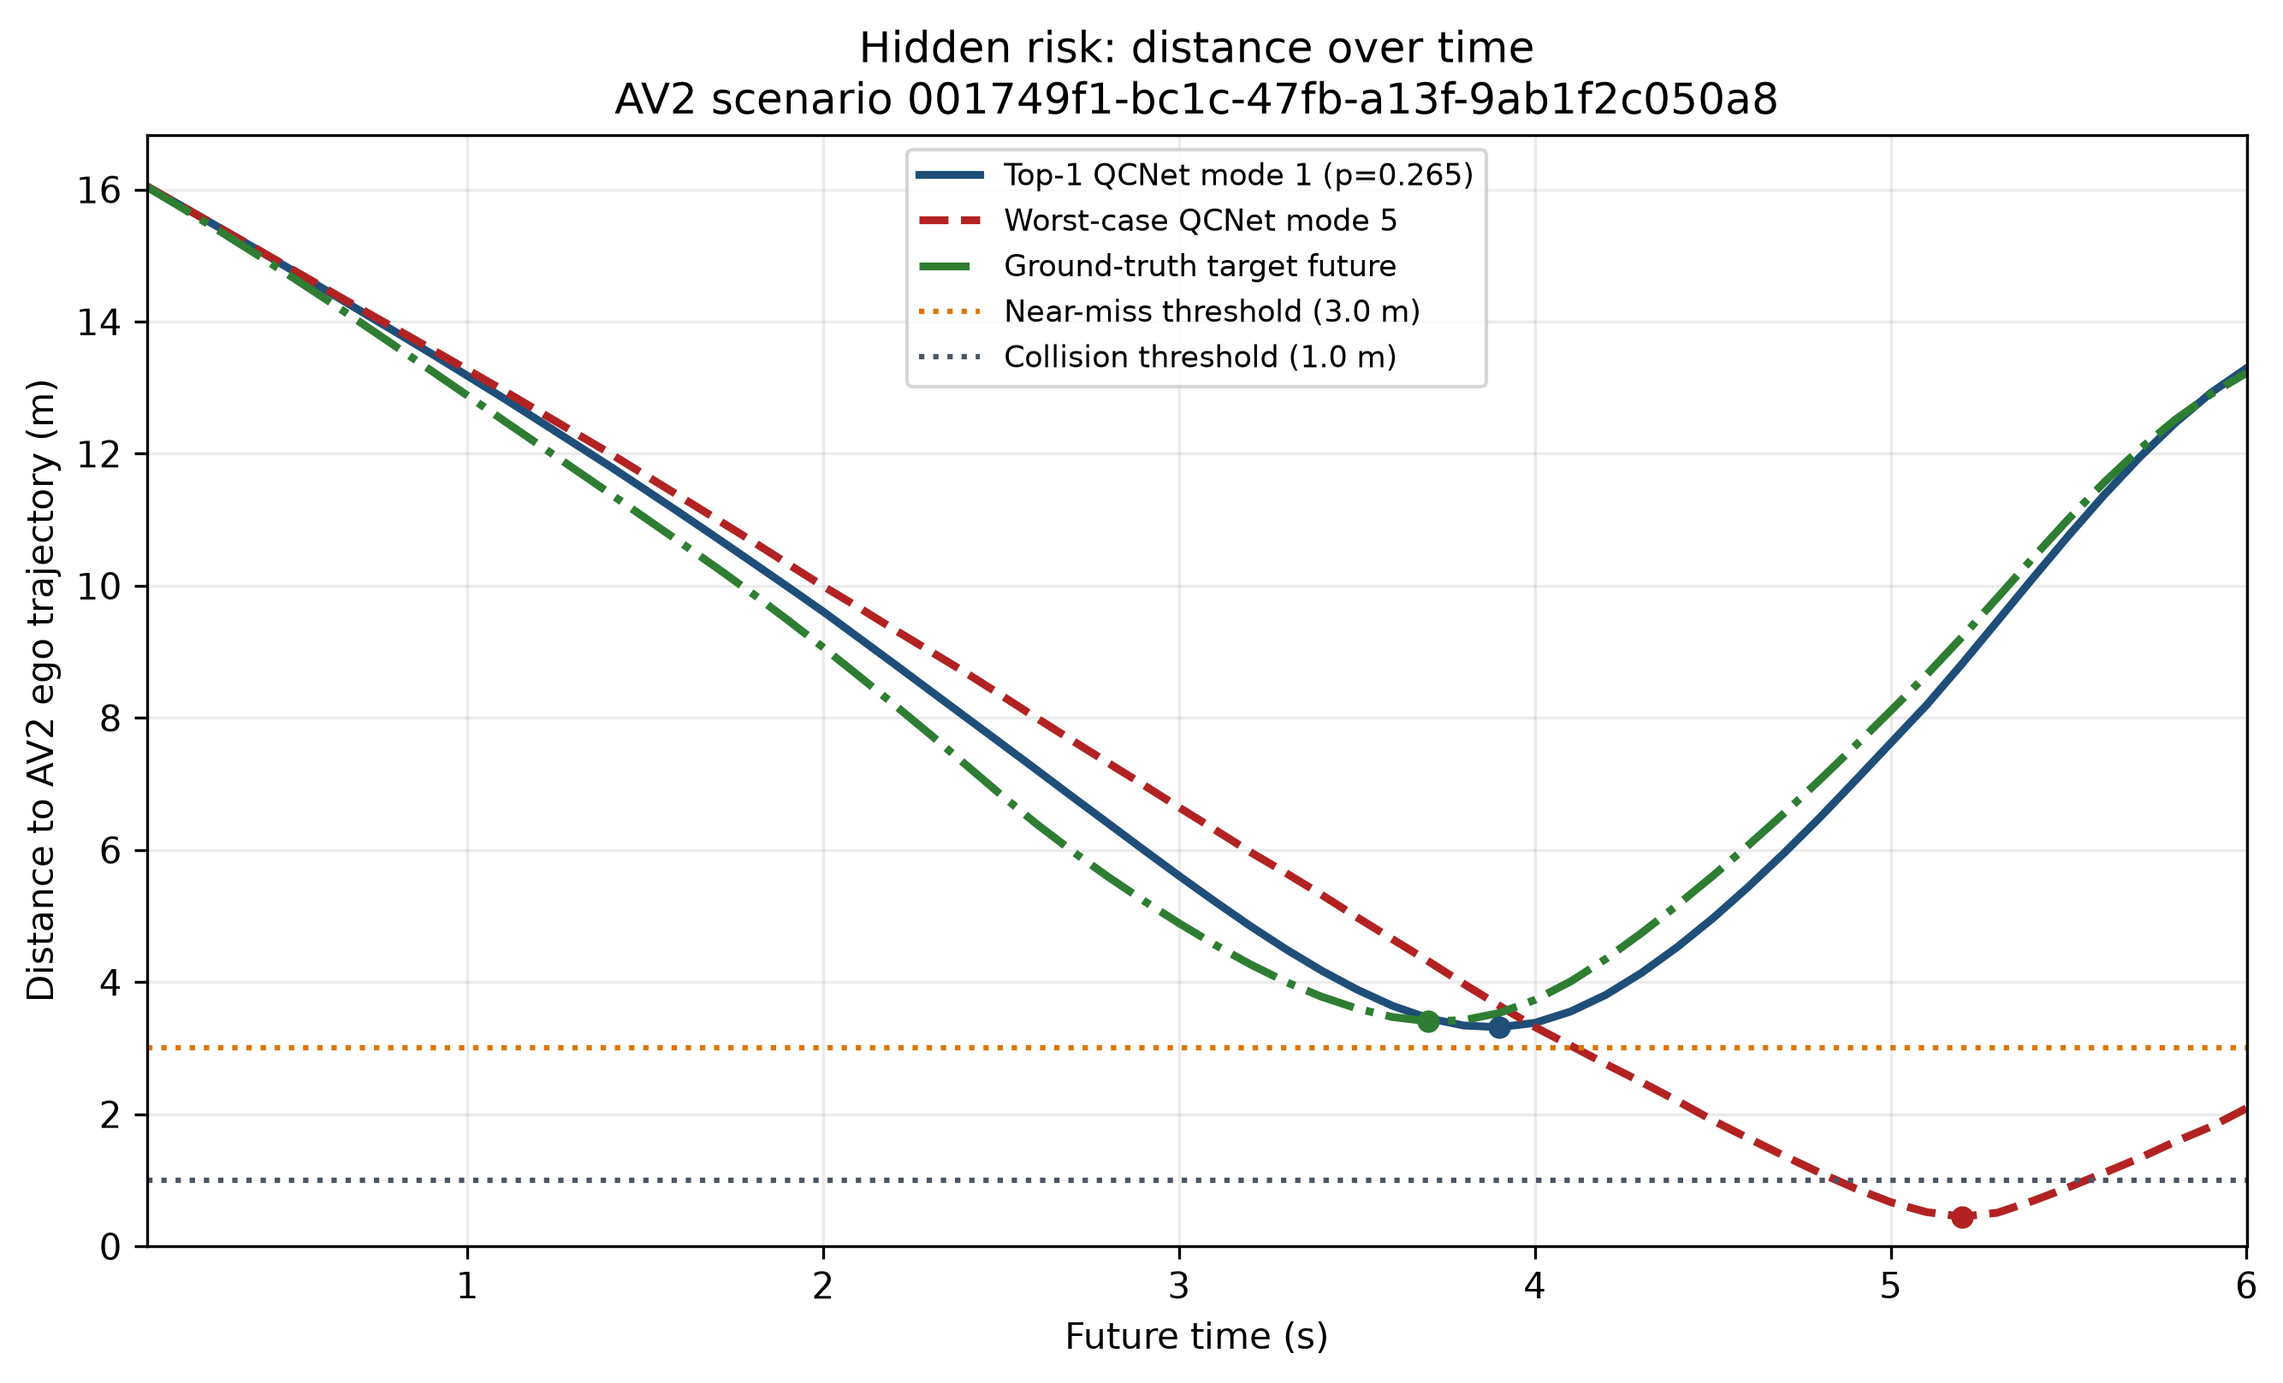
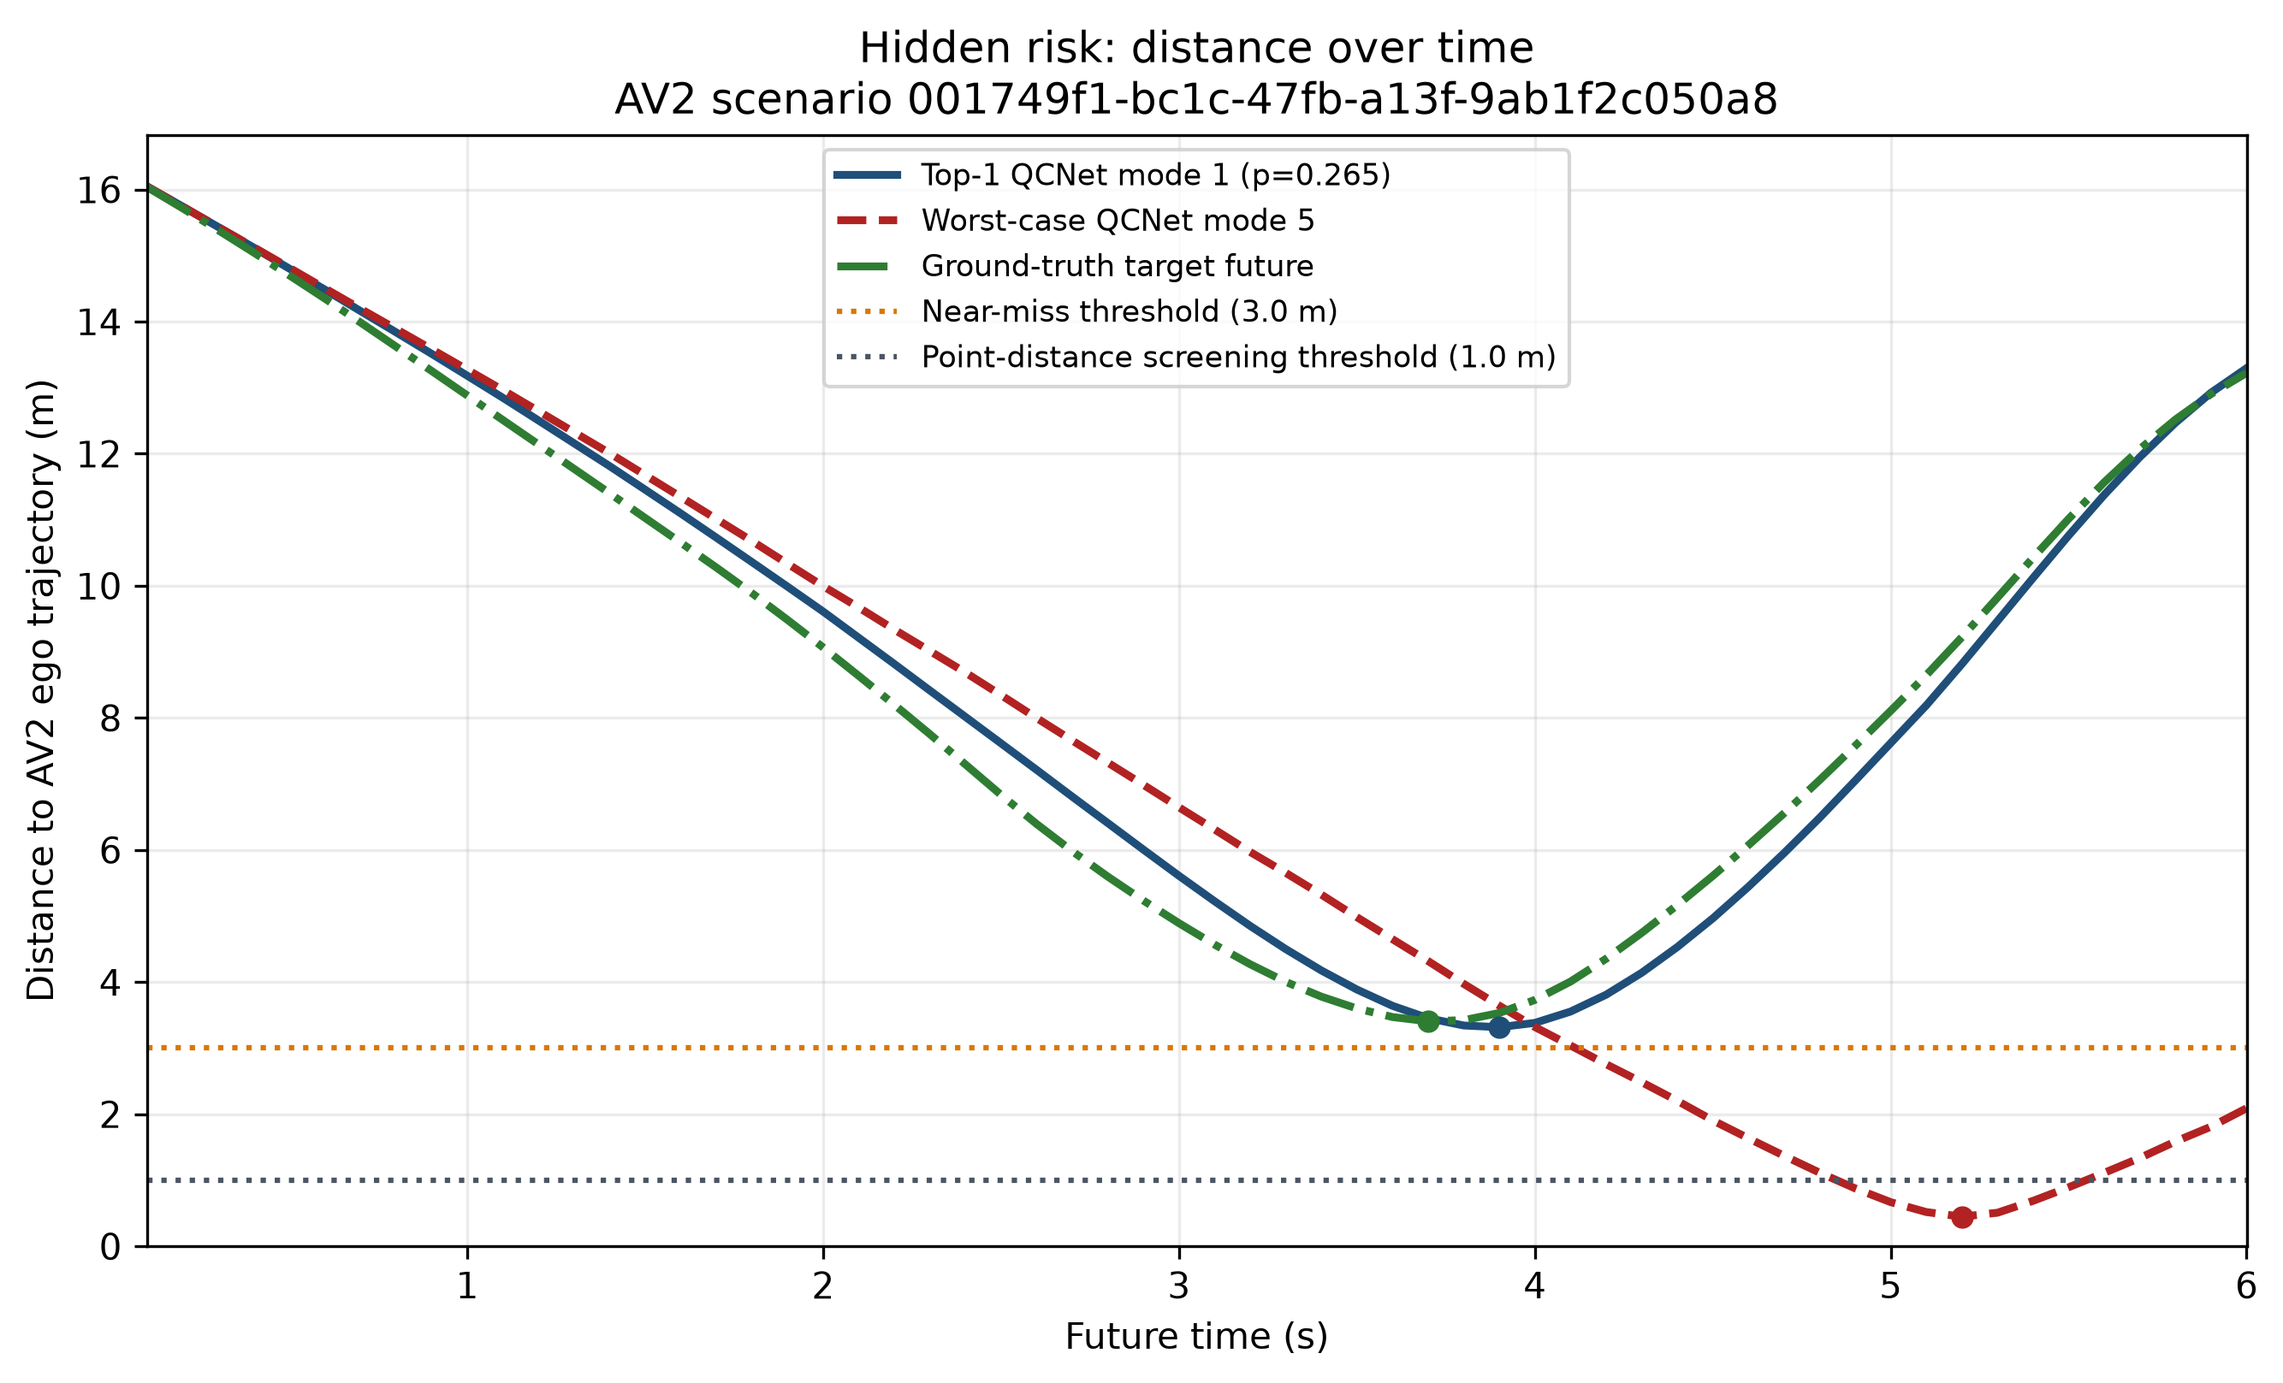
Update QCNet open-loop analysis with final selected scenarios

Changed region(s): [[0.3733, 0.1237, 0.6844, 0.2783]]

diff --git a/docs/results_summary_qcnet_real.md b/docs/results_summary_qcnet_real.md
@@ -1,12 +1,12 @@
-# QCNet Open-Loop Safety Analysis on AV2 Validation Scenarios
+# QCNet Open-Loop Point-Trajectory Safety Analysis on AV2 Validation Scenarios
 
 ## What Was Evaluated
 
 This study evaluates 50 scenario artifacts from the Argoverse 2 (AV2) motion forecasting validation split. Each artifact contains six real multimodal trajectory predictions from the released QCNet AV2 checkpoint, their mode probabilities, the AV2 ego future trajectory, and the focal target actor's ground-truth future trajectory. All trajectories are represented in the AV2 global coordinate frame over a 60-step, 6.0 s future horizon sampled at 10 Hz.
 
-The safety measure is the time-aligned Euclidean distance between the ego future trajectory and either a predicted target trajectory or the target ground truth. The analysis reports the minimum distance for the highest-probability QCNet mode (top-1), the minimum across all six modes (worst-case multimodal), and the ground-truth minimum. A distance below 3.0 m is treated as a near miss and a distance below 1.0 m as a collision-threshold event.
+The analysis measure is the time-aligned Euclidean point distance between the ego future trajectory and either a predicted target trajectory or the target ground truth. It reports the minimum distance for the highest-probability QCNet mode (top-1), the minimum across all six modes (worst-case multimodal), and the ground-truth minimum. A point distance below 3.0 m is treated as a near miss for this analysis. The separate 1.0 m threshold remains a point-distance screening convention and is not vehicle-footprint collision checking.
 
-This is open-loop safety analysis using real QCNet multimodal predictions and AV2 ego trajectories. It is not closed-loop autonomous driving evaluation and does not report CARLA results. The simple planner comparison does not alter the recorded ego trajectory or simulate the consequences of braking.
+This is open-loop point-trajectory safety analysis using real QCNet multimodal predictions and AV2 ego trajectories. It is not closed-loop autonomous driving evaluation and does not report CARLA results. The simple planner comparison does not alter the recorded ego trajectory or simulate the consequences of braking.
 
 ## Artifact Generation
 
@@ -21,8 +21,8 @@ Across the 50 exported scenarios:
 - 1 scenario had a top-1 QCNet minimum distance below the 3.0 m near-miss threshold.
 - 3 scenarios had a worst-case multimodal minimum distance below 3.0 m.
 - 1 scenario had a ground-truth minimum distance below 3.0 m.
-- No top-1 or ground-truth trajectory fell below the 1.0 m collision threshold.
-- 2 worst-case multimodal trajectories fell below 1.0 m.
+- No top-1 or ground-truth trajectory fell below the 1.0 m point-distance threshold.
+- 2 worst-case multimodal trajectories fell below the 1.0 m point-distance threshold; this does not establish a collision.
 - 2 scenarios were hidden-risk cases in which top-1 remained above 3.0 m while a lower-probability mode fell below 3.0 m.
 
 These are threshold counts within a selected 50-scenario subset. They are not collision rates, dataset-wide frequencies, or evidence that QCNet improves safety.
@@ -32,45 +32,55 @@ These are threshold counts within a selected 50-scenario subset. They are not co
 | Scenario | Type | Top-1 probability | Top-1 min (m) | Worst-case min (m) | Ground truth min (m) | Multimodal gap (m) |
 |---|---|---:|---:|---:|---:|---:|
 | `001749f1-bc1c-47fb-a13f-9ab1f2c050a8` | Hidden risk | 0.265 | 3.317 | 0.448 | 3.406 | 2.869 |
-| `0058ed53-93bf-42a7-9bba-6df3f6ce20f5` | Large top-1 vs multimodal gap | 0.294 | 8.173 | 0.646 | 9.283 | 7.527 |
+| `0091bad9-e7b2-4c07-aa12-6b5fd03c63d2` | High-confidence close interaction | 0.912 | 3.181 | 3.136 | 3.228 | 0.045 |
 | `00351569-255c-433e-b97b-e2a844d1b6e0` | Real near miss | 0.306 | 2.597 | 2.045 | 2.162 | 0.552 |
 
 ### Hidden Risk: 001749
 
 The top-1 prediction remains just above the near-miss threshold, with a minimum distance of 3.317 m. A lower-probability mode reaches 0.448 m, producing a 2.869 m multimodal gap. Multimodal prediction exposes possible lower-probability risk, but ground truth remains safe at 3.406 m. This is evidence of divergent predicted futures, not an observed collision or proof that braking would improve the outcome.
 
-### Large Gap: 0058ed
+### High-Confidence Close Interaction: 0091bad
 
-The top-1 prediction remains well separated from ego at 8.173 m, while the worst-case mode reaches 0.646 m. The resulting 7.527 m gap is a clear example of a risk signal that is absent from the highest-probability trajectory. Multimodal prediction exposes possible lower-probability risk, but ground truth remains safe at 9.283 m.
+Top-1, worst-case multimodal, and ground-truth minimum distances are closely aligned at 3.181 m, 3.136 m, and 3.228 m. Their minima occur at zero-based steps 16, 19, and 18, corresponding to 1.7-2.0 s into the future rather than the horizon endpoint. The top-1 probability is 0.912, and map-context review places the trajectories coherently in the same road corridor. This case provides a high-confidence example of a consistent close interaction above but near the 3.0 m threshold.
 
 ### Real Near Miss: 003515
 
-This is the strongest real near-miss example in the selected batch because ground truth, top-1, and worst-case multimodal distances are all below the 3.0 m near-miss threshold. Their respective minimum distances are 2.162 m, 2.597 m, and 2.045 m. The agreement indicates that the close interaction is present in the recorded future as well as in the QCNet predictions, although no trajectory falls below the 1.0 m collision threshold.
+This is the strongest real near-miss example in the selected batch because ground truth, top-1, and worst-case multimodal distances are all below the 3.0 m near-miss threshold. Their respective minimum distances are 2.162 m, 2.597 m, and 2.045 m. The agreement indicates that the close interaction is present in the recorded future as well as in the QCNet predictions. This point-distance result is not a vehicle-footprint collision determination.
+
+### Retained Appendix Case: 0058ed
+
+Scenario `0058ed53-93bf-42a7-9bba-6df3f6ce20f5` remains available as an appendix or sensitivity example of a large top-1 versus multimodal gap. It was removed from the headline set because its strongest risky point occurs at the final horizon timestep, making the sub-meter worst-case point distance more vulnerable to endpoint effects. Its existing figures and metrics have been retained. Scenario `0091bad` was selected instead because its close interaction occurs earlier and is more consistent across top-1, worst-case multimodal, and ground-truth trajectories.
 
 ## Top-1 and Multimodal Planner Decisions
 
-The illustrative planner rule brakes when its input minimum distance is below 3.0 m. A top-1 planner therefore does not brake for scenarios 001749 or 0058ed, while a conservative multimodal planner brakes because at least one predicted mode crosses the threshold. Both planners brake for scenario 003515.
+The illustrative planner rule brakes only when its input minimum distance is below 3.0 m. For scenario 001749, the top-1 planner does not brake while the conservative multimodal planner brakes. For scenario 0091bad, neither planner brakes because both predicted minima remain above 3.0 m, although top-1, worst-case multimodal, and ground truth all identify a close interaction near the threshold. Both planners brake for scenario 003515.
 
-This comparison shows how considering lower-probability modes can change a threshold-based decision. It does not establish that the conservative decision is safer: in the first two scenarios the recorded ground truth remains above 3.0 m, and the analysis does not simulate the effects or costs of intervention. Probability calibration, mode plausibility, and the trade-off between risk sensitivity and unnecessary braking remain open questions.
+The selected cases motivate uncertainty-aware planning by showing both disagreement across plausible modes and agreement around a close interaction. They do not prove that uncertainty-aware planning improves safety. The analysis does not simulate the effects or costs of intervention, and probability calibration, mode plausibility, and the trade-off between risk sensitivity and unnecessary braking remain open questions.
 
 ## Limitations
 
 - The analysis is open loop; planner actions do not affect future ego or target motion.
 - The 50 scenarios are a subset of AV2 validation data and are not a representative safety benchmark.
-- Distance is measured between trajectory points and does not account for actor dimensions, orientation, or collision geometry.
+- Distance is measured between trajectory points and does not account for actor dimensions, orientation, or vehicle-footprint overlap.
 - Each artifact evaluates one focal target actor against the recorded ego trajectory rather than jointly reasoning over every road user.
 - Worst-case mode selection ignores probability magnitude after the modes have been generated.
-- The 3.0 m and 1.0 m thresholds are simple analysis conventions, not validated universal definitions of near miss and collision.
+- The 3.0 m and 1.0 m thresholds are simple point-distance conventions, not validated universal safety definitions.
 - No CARLA bridge, closed-loop controller, or counterfactual braking response is evaluated here.
 
 ## Next Steps
 
-The immediate next step is to inspect the selected trajectories alongside map context and verify that the low-distance modes are behaviorally plausible. The analysis can then be expanded to a larger, documented AV2 sample and augmented with actor-envelope distances and probability-aware risk measures. A later closed-loop phase should connect prediction-derived risk to a controller in CARLA or another simulator, measure the consequences of intervention, and report safety and conservatism together. Those future results must remain separate from the open-loop evidence reported here.
+The selected and candidate trajectories have now been inspected with AV2 map context. The analysis can next be expanded to a larger, documented AV2 sample and augmented with actor-envelope distances and probability-aware risk measures. A later closed-loop phase should connect prediction-derived risk to a controller in CARLA or another simulator, measure the consequences of intervention, and report safety and conservatism together. Those future results must remain separate from the open-loop evidence reported here.
 
 ## Generated Outputs
 
 - `results/qcnet_batch/figures/distance_over_time_hidden_risk_001749.png`
-- `results/qcnet_batch/figures/distance_over_time_large_gap_0058ed.png`
+- `results/qcnet_batch/figures/distance_over_time_high_confidence_close_0091bad.png`
 - `results/qcnet_batch/figures/distance_over_time_real_near_miss_003515.png`
+- `results/qcnet_batch/scenario_validation/`
+- `results/qcnet_batch/scenario_validation_candidates/`
 - `results/qcnet_batch/qcnet_selected_scenarios_summary.csv`
 - `results/qcnet_batch/qcnet_planner_decision_comparison.csv`
+
+Retained appendix/sensitivity output:
+
+- `results/qcnet_batch/figures/distance_over_time_large_gap_0058ed.png`

diff --git a/results/qcnet_batch/scenario_validation_candidates/candidate_replacement_review.md b/results/qcnet_batch/scenario_validation_candidates/candidate_replacement_review.md
@@ -1,0 +1,37 @@
+# QCNet Candidate Replacement Review
+
+## Scope
+
+This review compares three possible replacements for scenario `0058ed53-93bf-42a7-9bba-6df3f6ce20f5` in the selected QCNet examples. The comparison uses the recorded AV2 ego trajectory, the focal actor's ground-truth future, six QCNet point-trajectory modes, and the local AV2 map. Timestep indices are zero-based; the first predicted point is at 0.1 s.
+
+These are open-loop point-trajectory analyses, not closed-loop safety results. The recorded ego trajectory does not respond to a predicted risk. Distances are between trajectory points and do not include actor envelopes or vehicle footprints, so none of the cases establishes a collision.
+
+## Comparison
+
+| Scenario | Candidate type | Top-1 / worst / ground truth min (m) | Minimum steps (top-1 / worst / GT) | Top-1 probability | Worst-mode probability | Horizon-end worst minimum | Recommended use |
+|---|---|---:|---:|---:|---:|---|---|
+| `005f3e26-75cb-43a5-b61a-89343d490fdf` | Borderline near-miss threshold | 3.036 / 3.003 / 3.606 | 27 / 24 / 38 | 0.225 | 0.107 | No | `secondary_case` |
+| `0091bad9-e7b2-4c07-aa12-6b5fd03c63d2` | High-confidence close interaction | 3.181 / 3.136 / 3.228 | 16 / 19 / 18 | 0.912 | 0.000377 | No | `primary_case_study` |
+| `00170a57-eb8a-4947-8b7d-7b12af7af2db` | Moderate close interaction | 3.427 / 3.261 / 3.362 | 39 / 49 / 43 | 0.532 | 0.000788 | No | `appendix_only` |
+
+## Candidate Assessment
+
+### 005f3e: Borderline Threshold Case
+
+The top-1 and worst-case predictions both approach the 3.0 m threshold before the middle of the horizon, while ground truth remains farther away at 3.606 m. The mapped trajectories show a plausible close interaction in the road corridor rather than an isolated endpoint convergence. This is useful for discussing sensitivity to a chosen threshold, but the lower top-1 probability and larger ground-truth separation make it weaker as the main replacement.
+
+### 0091bad: High-Confidence Close Interaction
+
+This candidate has the strongest agreement across evidence sources. Top-1, worst-case, and ground-truth minimum distances occupy a narrow 0.092 m range, and their minima occur within three timesteps around 1.7-2.0 s. The map view places the trajectories coherently within the same road corridor. The top-1 probability is 0.912, so the close interaction is represented by QCNet's dominant mode as well as ground truth. The nominal worst-case mode has very low probability, but the case does not depend on that mode because top-1 and ground truth report similar separation.
+
+### 00170a: Moderate Close Interaction
+
+The three minimum distances are reasonably consistent and all occur before the final timestep. The mapped interaction is plausible, but the minimum separation stays above 3.0 m and occurs later than in `0091bad`. The worst-case mode also has negligible probability. The scenario is suitable as supporting or appendix evidence, but it adds less to the headline comparison.
+
+## Recommendation
+
+Use `0091bad9-e7b2-4c07-aa12-6b5fd03c63d2` as the replacement for `0058ed53` in the three headline selected examples. It better satisfies the stated criteria: the closest interaction occurs well before the horizon end, top-1 and ground truth are closely aligned with the worst-case distance, the dominant mode has high probability, and the map context supports a coherent road interaction.
+
+Keep `0058ed53` in the analysis as an appendix or sensitivity example of a large multimodal gap whose minimum occurs at the final horizon step. Do not delete it or interpret its sub-meter point distance as a collision. Retain `005f3e` as a secondary threshold-sensitivity case and `00170a` as appendix-only supporting evidence.
+
+This recommendation improves the robustness and interpretability of the selected examples; it does not demonstrate that QCNet or a planner improves safety.
